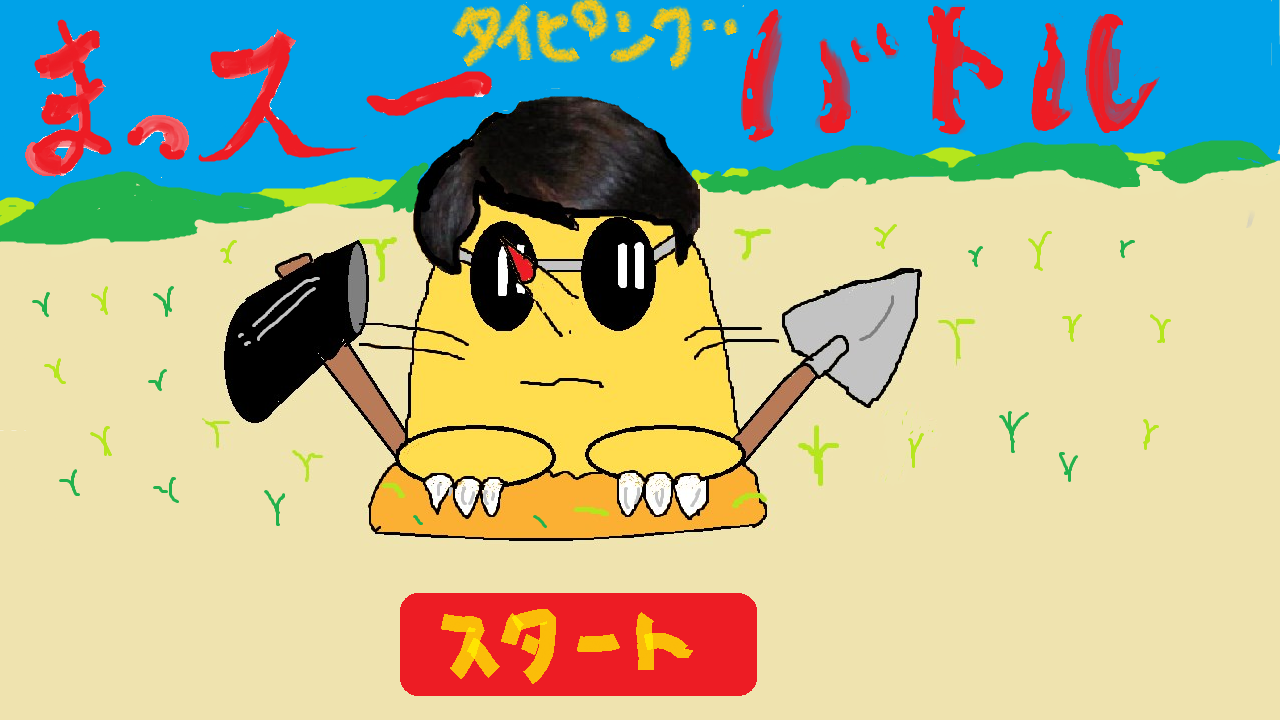
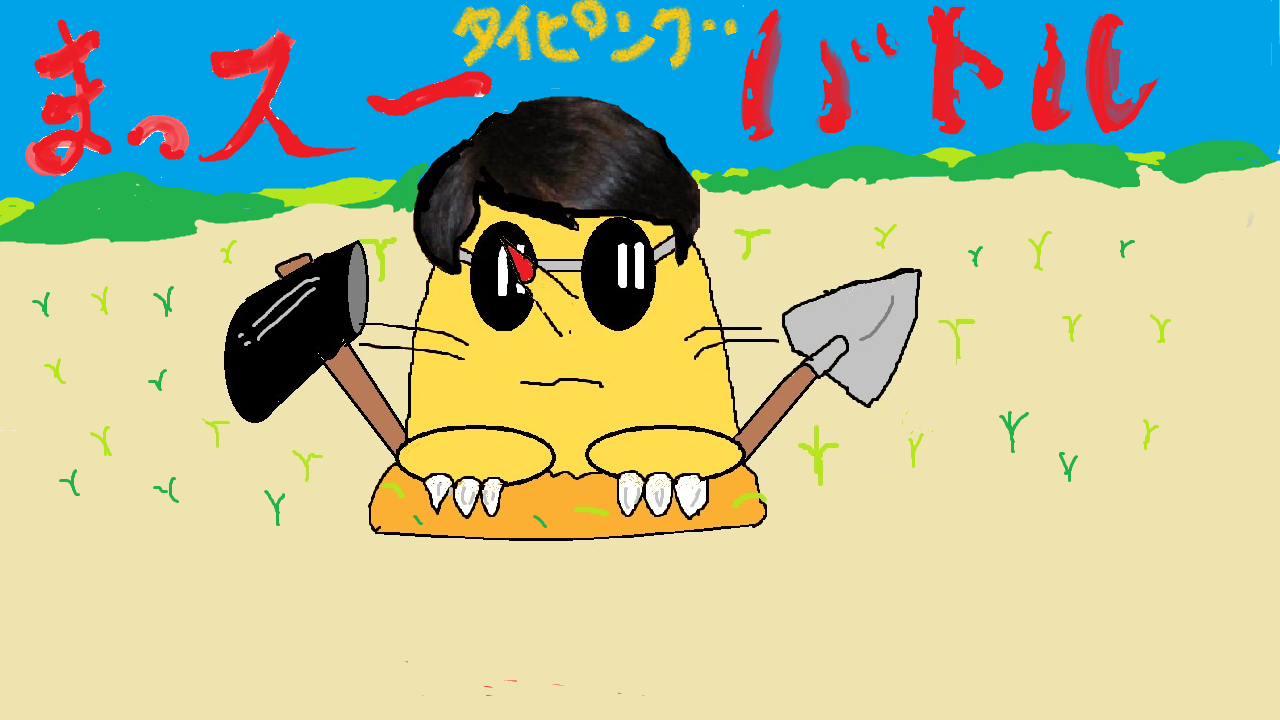
add images(start,mouse,keyboard) title now can go ready with click start or push enterkey ready now waits click and push enterkey

Changed region(s): [[0.3125, 0.825, 0.5938, 0.9778]]

diff --git a/Scenes/ready/ready.rb b/Scenes/ready/ready.rb
@@ -1,12 +1,28 @@
 module Ready
   class Director
     BACKGROUND = Image.load('images/ruby.png')
+    MOUSE = Image.load('images/mouse.png')
+    KEYBOARD = Image.load('images/keyboard.png')
+    RMOUSE = Image.load('images/mouseready.png')
+    RMOUSE.set_color_key([255,255,255])
+    RKEYBOARD = Image.load('images/keyboardready.png')
+    RKEYBOARD.set_color_key([255,255,255])
 def initialize
   @x=0
   @y=0
 end
     def play
       Window.draw(0, 0, BACKGROUND)
+      if @x==0
+      Window.draw(100, 200, KEYBOARD)
+    elsif @x==1
+      Window.draw(100, 200, RKEYBOARD)
+      end
+      if @y==0
+      Window.draw(700, 200, MOUSE)
+    elsif @y==1
+        Window.draw(700, 200, RMOUSE)
+      end
       if Input.key_push?(K_RETURN) then
         @x=1
       end

diff --git a/Scenes/title/title.rb b/Scenes/title/title.rb
@@ -1,12 +1,19 @@
 module Title
   class Director
     BACKGROUND = Image.load('images/mog05_1.png')
-
+    START = Image.load('images/start.png')
     def play
     	Window.draw(0, 0, BACKGROUND)
+      Window.draw(400,550,START)
 
-      Scene.current = :ready if Input.key_push?(K_RETURN)
-
+      if Input.mouse_x >= 400 && Input.mouse_x <= 758 && Input.mouse_y >= 550 && Input.mouse_y <= 654
+        if Input.mouse_down?(M_LBUTTON)
+          Scene.current = :ready
+        end
+      end
+      if Input.key_push?(K_RETURN)
+        Scene.current = :ready
+      end
     end
   end
 end
